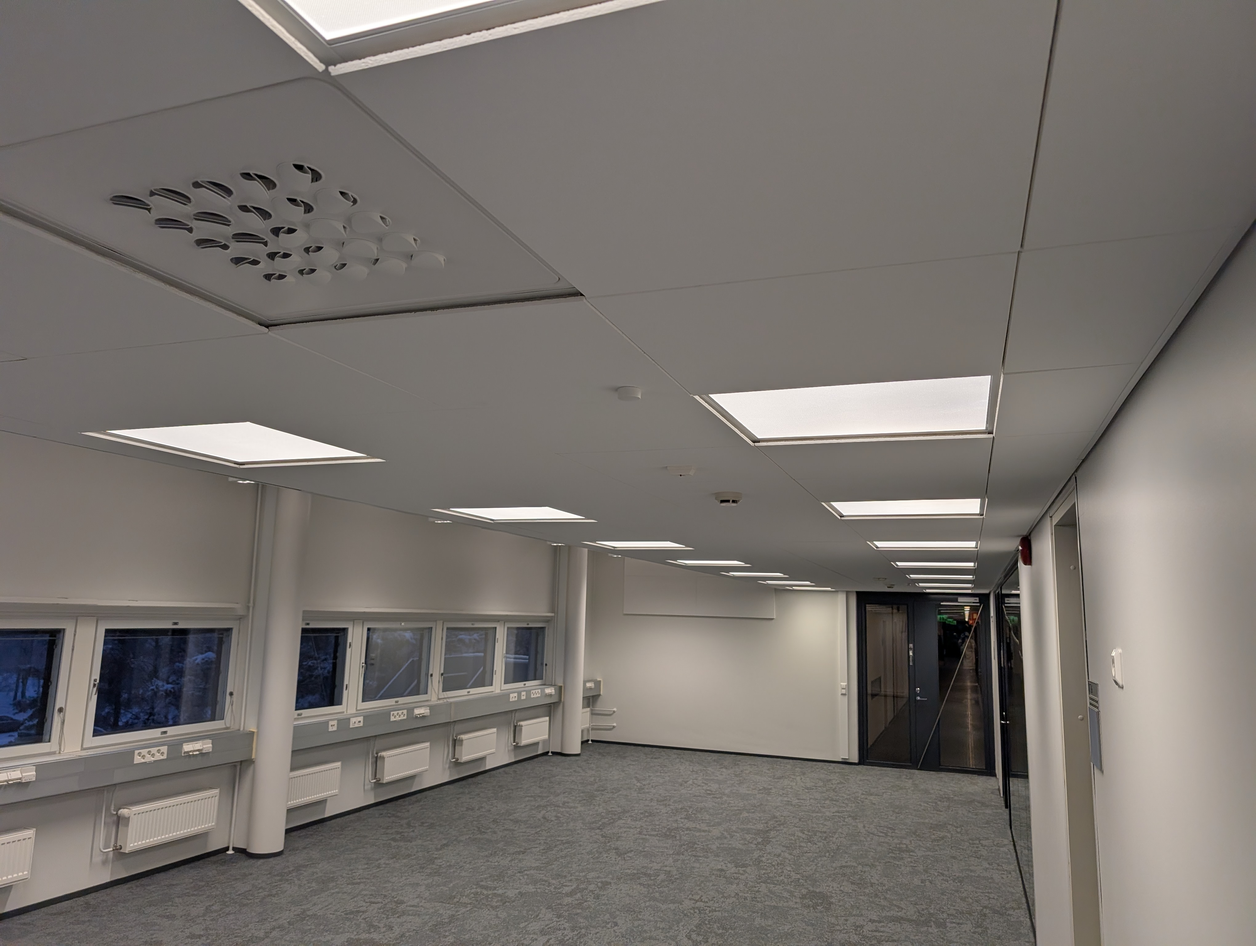
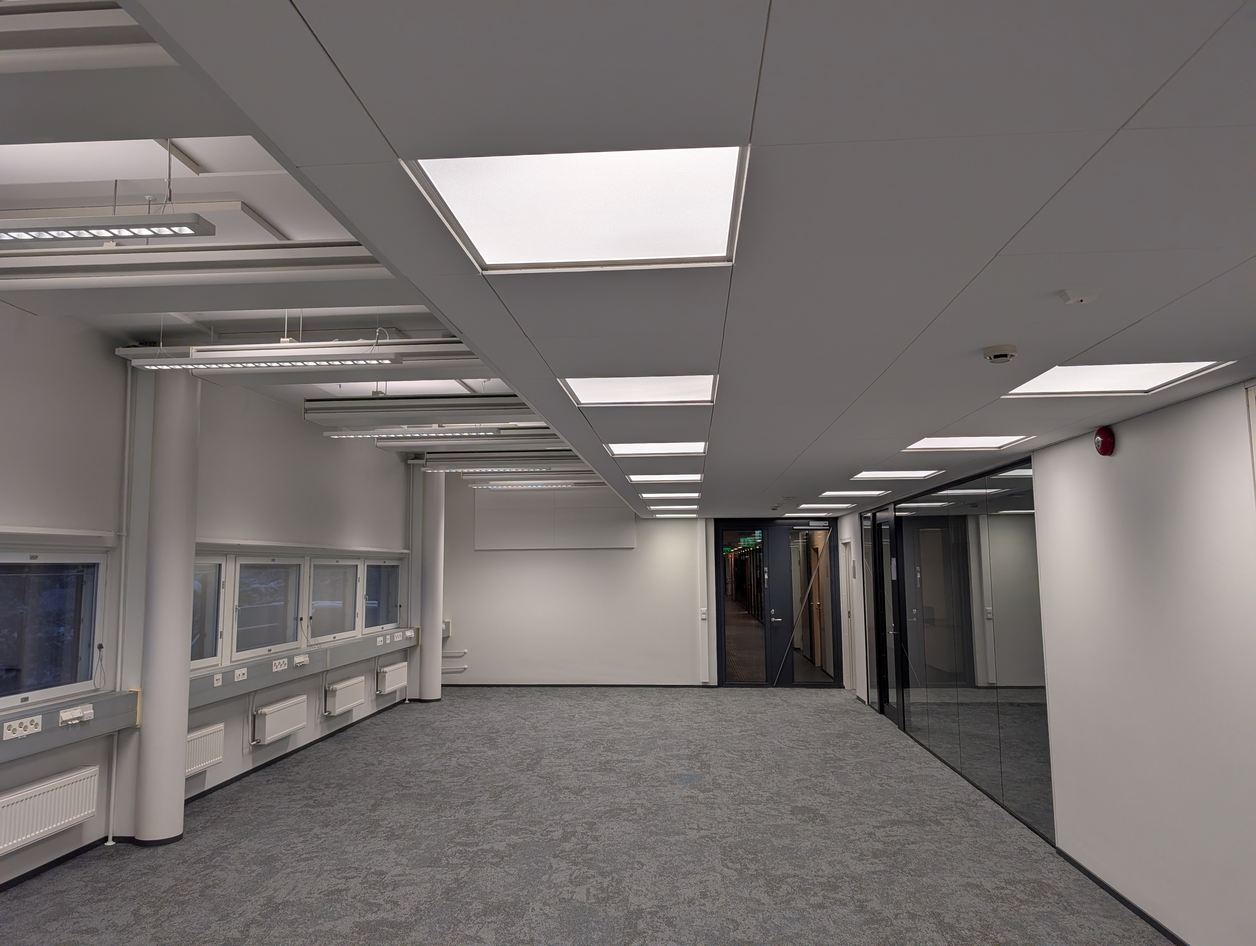
Refactor code structure for improved readability and maintainability

diff --git a/generate_pointcloud.py b/generate_pointcloud.py
@@ -20,7 +20,7 @@ def setup_paths(data_folder="SAMPLE_SCENE", base_path=None):
     return paths
 
 
-def load_da3_model(model_name="depth-anything/DA3-GIANT-1.1"):
+def load_da3_model(model_name="depth-anything/DA3NESTED-GIANT-LARGE-1.1"):
     """Initialize Depth-Anything-3 model on available device"""
     device = torch.device("cuda" if torch.cuda.is_available() else "cpu")
     print(f"Using device: {device}")
@@ -383,33 +383,25 @@ def process_pipeline(data_folder, conf_thresh=0.4, visualize=True, clean=True,
     print(f"Created {len(point_clouds)} point clouds")
     
     # === ALIGNMENT REFINEMENT ===
-    # Note: ICP/multiway uses internal downsampling for speed, but applies
-    # the computed transformations to the FULL point clouds
     if use_multiway:
-        # Multiway registration (best for global consistency)
-        # Use a reasonable voxel size for registration computation only
         registration_voxel_size = 0.02 if voxel_size <= 0 else voxel_size * 2
         point_clouds = refine_alignment_multiway(point_clouds, voxel_size=registration_voxel_size)
     elif use_icp:
-        # Pairwise ICP refinement
         registration_voxel_size = 0.02 if voxel_size <= 0 else voxel_size * 2
         point_clouds = refine_alignment_icp(point_clouds, voxel_size=registration_voxel_size)
     
     # === MERGE POINT CLOUDS ===
     if use_multiview_filter:
-        # Keep only points seen from multiple views
         distance_thresh = 0.03 if voxel_size <= 0 else voxel_size * 3
         merged_pcd = filter_by_multiview_consistency(point_clouds, 
                                                       distance_threshold=distance_thresh,
                                                       min_views=2)
     else:
-        # Simple merge
         merged_pcd = merge_point_clouds_simple(point_clouds)
     
     print(f"\nMerged point cloud: {len(merged_pcd.points)} points")
     
     # === POST-PROCESSING ===
-    # Voxel downsampling (only if voxel_size > 0)
     if voxel_size > 0:
         merged_pcd = voxel_downsample_and_denoise(merged_pcd, voxel_size=voxel_size)
     else:
@@ -417,7 +409,8 @@ def process_pipeline(data_folder, conf_thresh=0.4, visualize=True, clean=True,
     
     # Statistical outlier removal
     if clean:
-        merged_pcd = statistical_outlier_removal(merged_pcd, nb_neighbors=20, std_ratio=2.0)
+        merged_pcd = radius_outlier_removal(merged_pcd, nb_points=6, radius=0.25)
+        #merged_pcd = statistical_outlier_removal(merged_pcd, nb_neighbors=20, std_ratio=2.0)
     
     # Get final points and colors
     final_pts = np.asarray(merged_pcd.points)
@@ -445,14 +438,14 @@ if __name__ == "__main__":
     parser = argparse.ArgumentParser(description="Generate 3D point cloud from images using Depth Anything 3")
     parser.add_argument("--data_folder", type=str, default="SAMPLE_SCENE", 
                         help="Name of the folder in DATA directory")
-    parser.add_argument("--conf_thresh", type=float, default=0.4, 
+    parser.add_argument("--conf_thresh", type=float, default=0.5, 
                         help="Confidence threshold for filtering points (0.0-1.0)")
     parser.add_argument("--voxel_size", type=float, default=0.0, 
                         help="Voxel size for downsampling (0 = no downsampling, keeps all points)")
     parser.add_argument("--no_visualize", action="store_true", 
                         help="Disable visualization")
     parser.add_argument("--no_clean", action="store_true", 
-                        help="Disable point cloud cleaning (outlier removal)")
+                        help="Disable statistical outlier removal")
     parser.add_argument("--icp", action="store_true", 
                         help="Use ICP for pairwise alignment refinement")
     parser.add_argument("--multiway", action="store_true", 
